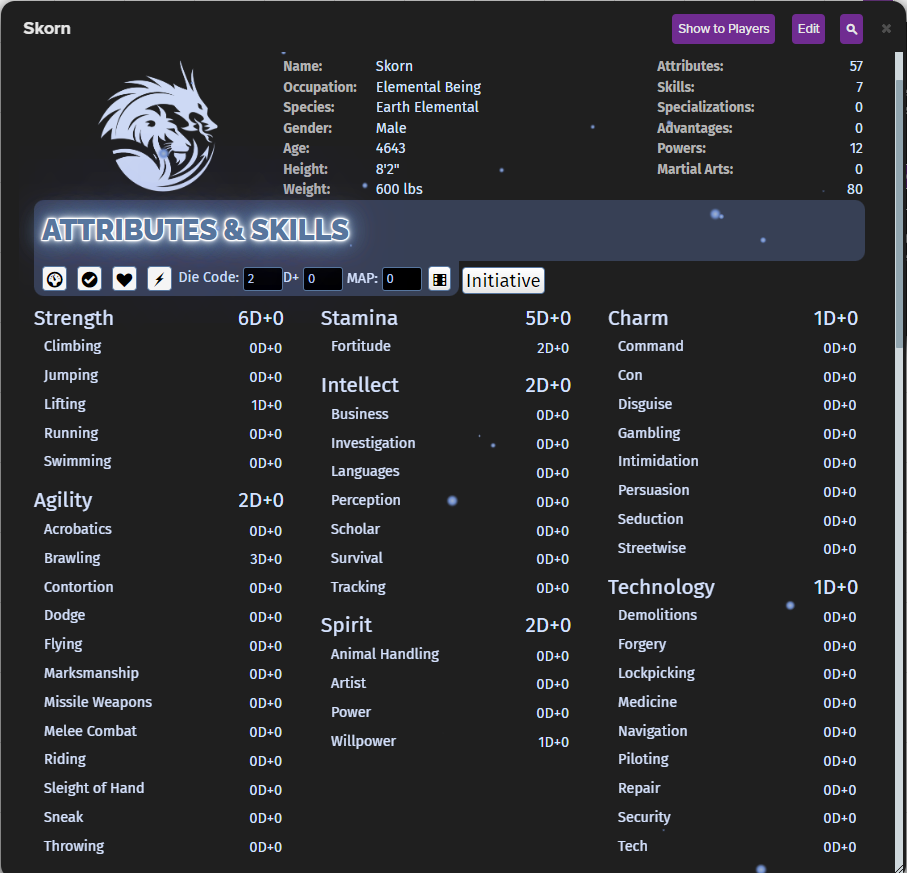
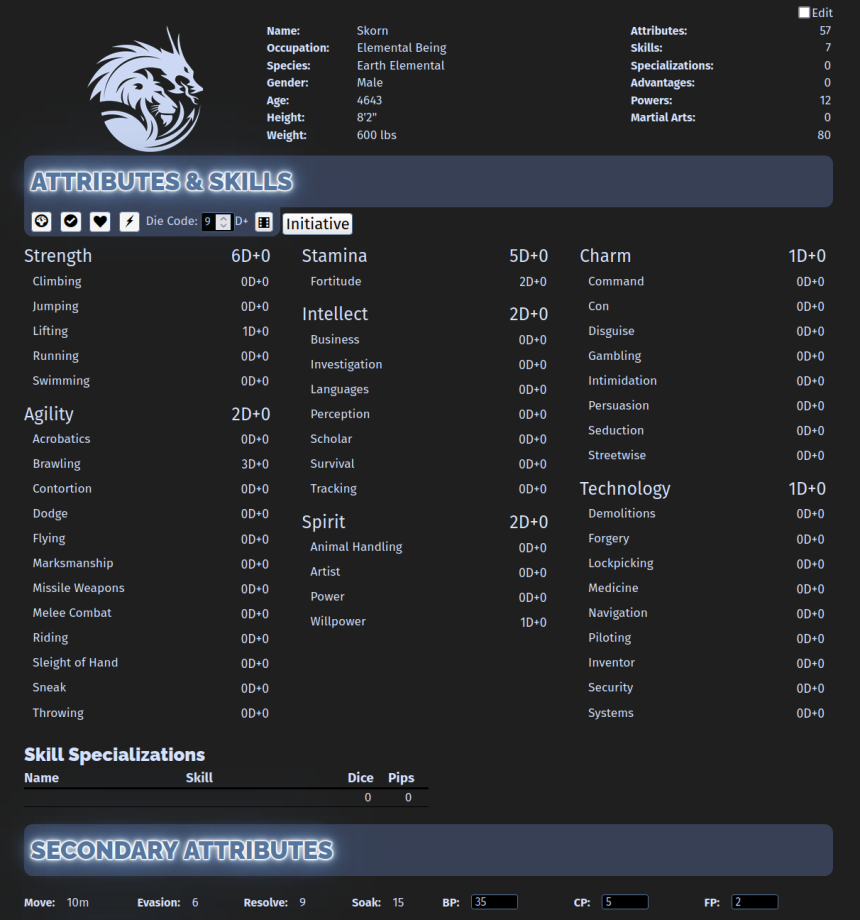
Swapping in Inventor and System skills

diff --git a/GeminiSheet.html b/GeminiSheet.html
@@ -1823,10 +1823,10 @@
               <div style="display: table-row">
                 <div class="sheet-skill-name-cell">
                   <div class="sheet-tooltip">
-                    <span>Repair</span>
+                    <span>Inventor</span>
                     <div class="sheet-left">
                       <div class="sheet-text-content">
-                        <h3>Repair</h3>
+                        <h3>Inventor</h3>
                         <p>
                           Creating, fixing, or modifying gadgets, weapons,
                           armor, and vehicles.
@@ -1840,10 +1840,10 @@
                   <button
                     type="roll"
                     class="sheet-link-button"
-                    value="!gdr [[(@{technology} + @{repairdice})d6 + (@{technologypip} + @{repairpip})]]"
+                    value="!gdr [[(@{technology} + @{inventordice})d6 + (@{technologypip} + @{inventorpip})]]"
                   >
-                    <span name="attr_repairdice"></span><span>D+</span
-                    ><span name="attr_repairpip"></span>
+                    <span name="attr_inventordice"></span><span>D+</span
+                    ><span name="attr_inventorpip"></span>
                   </button>
                 </div>
               </div>
@@ -1881,10 +1881,10 @@
               <div style="display: table-row">
                 <div class="sheet-skill-name-cell">
                   <div class="sheet-tooltip">
-                    <span>Tech</span>
+                    <span>Systems</span>
                     <div class="sheet-left">
                       <div class="sheet-text-content">
-                        <h3>Tech</h3>
+                        <h3>Systems</h3>
                         <p>
                           Using and designing (not making) complex mechanical or
                           electronic equipment, such as programming and
@@ -1900,10 +1900,10 @@
                   <button
                     type="roll"
                     class="sheet-link-button"
-                    value="!gdr [[(@{technology} + @{techdice})d6 + (@{technologypip} + @{techpip})]]"
+                    value="!gdr [[(@{technology} + @{systemsdice})d6 + (@{technologypip} + @{systemspip})]]"
                   >
-                    <span name="attr_techdice"></span><span>D+</span
-                    ><span name="attr_techpip"></span>
+                    <span name="attr_systemsdice"></span><span>D+</span
+                    ><span name="attr_systemspip"></span>
                   </button>
                 </div>
               </div>
@@ -5015,10 +5015,10 @@
                 <div style="display: table-row">
                   <div class="sheet-skill-name-cell">
                     <div class="sheet-tooltip">
-                      <span>Repair</span>
+                      <span>Inventor</span>
                       <div class="sheet-left">
                         <div class="sheet-text-content">
-                          <h3>Repair</h3>
+                          <h3>Inventor</h3>
                           <p>
                             Creating, fixing, or modifying gadgets, weapons,
                             armor, and vehicles.
@@ -5031,14 +5031,14 @@
                   <div class="sheet-attribute-die-code-cell">
                     <input
                       type="number"
-                      name="attr_repairdice"
+                      name="attr_inventordice"
                       class="sheet-smallnumber sheet-shortnumber"
                       min="0"
                       value="0"
                     />D+
                     <input
                       type="number"
-                      name="attr_repairpip"
+                      name="attr_inventorpip"
                       class="sheet-smallnumber sheet-shortnumber"
                       min="0"
                       max="2"
@@ -5087,10 +5087,10 @@
                 <div style="display: table-row">
                   <div class="sheet-skill-name-cell">
                     <div class="sheet-tooltip">
-                      <span>Tech</span>
+                      <span>Systems</span>
                       <div class="sheet-left">
                         <div class="sheet-text-content">
-                          <h3>Tech</h3>
+                          <h3>Systems</h3>
                           <p>
                             Using and designing (not making) complex mechanical
                             or electronic equipment, such as programming and
@@ -5105,14 +5105,14 @@
                   <div class="sheet-attribute-die-code-cell">
                     <input
                       type="number"
-                      name="attr_techdice"
+                      name="attr_systemsdice"
                       class="sheet-smallnumber sheet-shortnumber"
                       min="0"
                       value="0"
                     />D+
                     <input
                       type="number"
-                      name="attr_techpip"
+                      name="attr_systemspip"
                       class="sheet-smallnumber sheet-shortnumber"
                       min="0"
                       max="2"

diff --git a/README.md b/README.md
@@ -44,6 +44,7 @@ playing a game.  The image below is of the "Attributes annd Skills" section.
    - Unluck, counts each six as a point of unluck
 1. Use this section to adjust the amount of dice and pips rolled.  Press the six-sided die button to roll.
 1. This button will roll initiaive for you
+
 Other headings on your character sheet have dice rollers as well.  The Attributes and Skills roller is 
 unique in the sense that it has the "Initiative" button.
 
